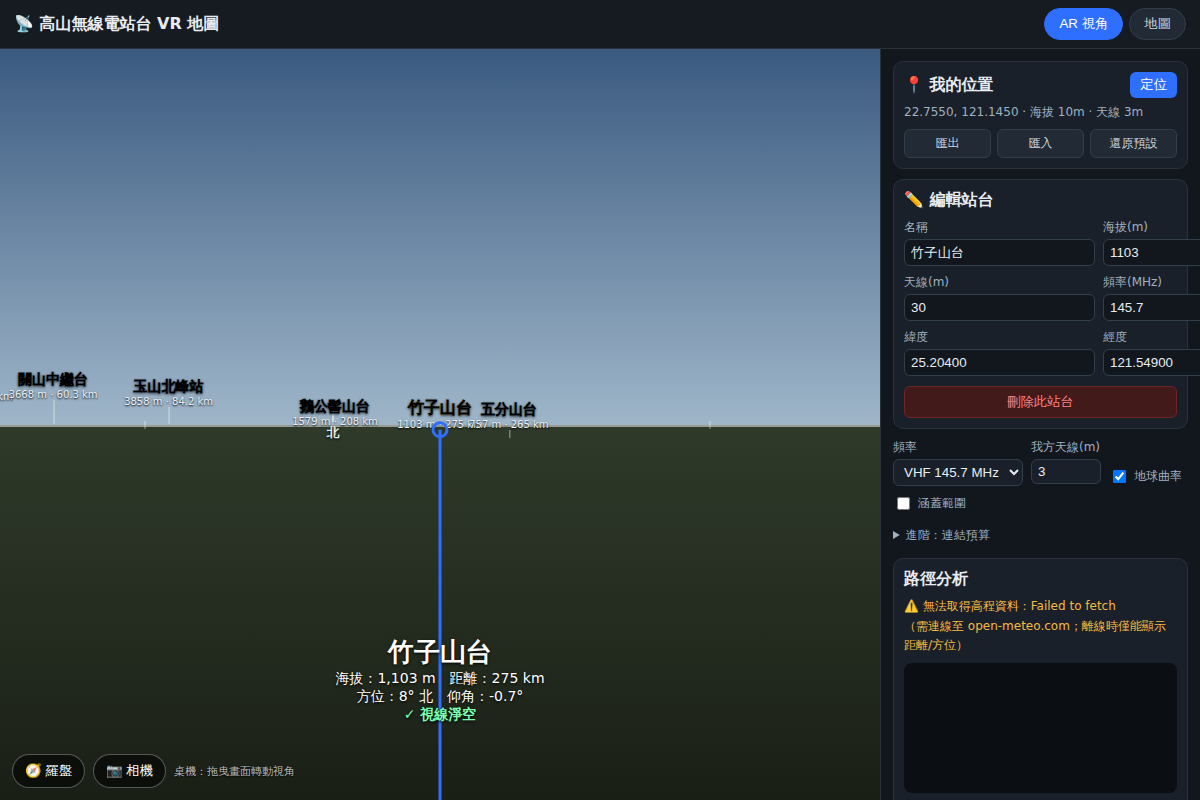
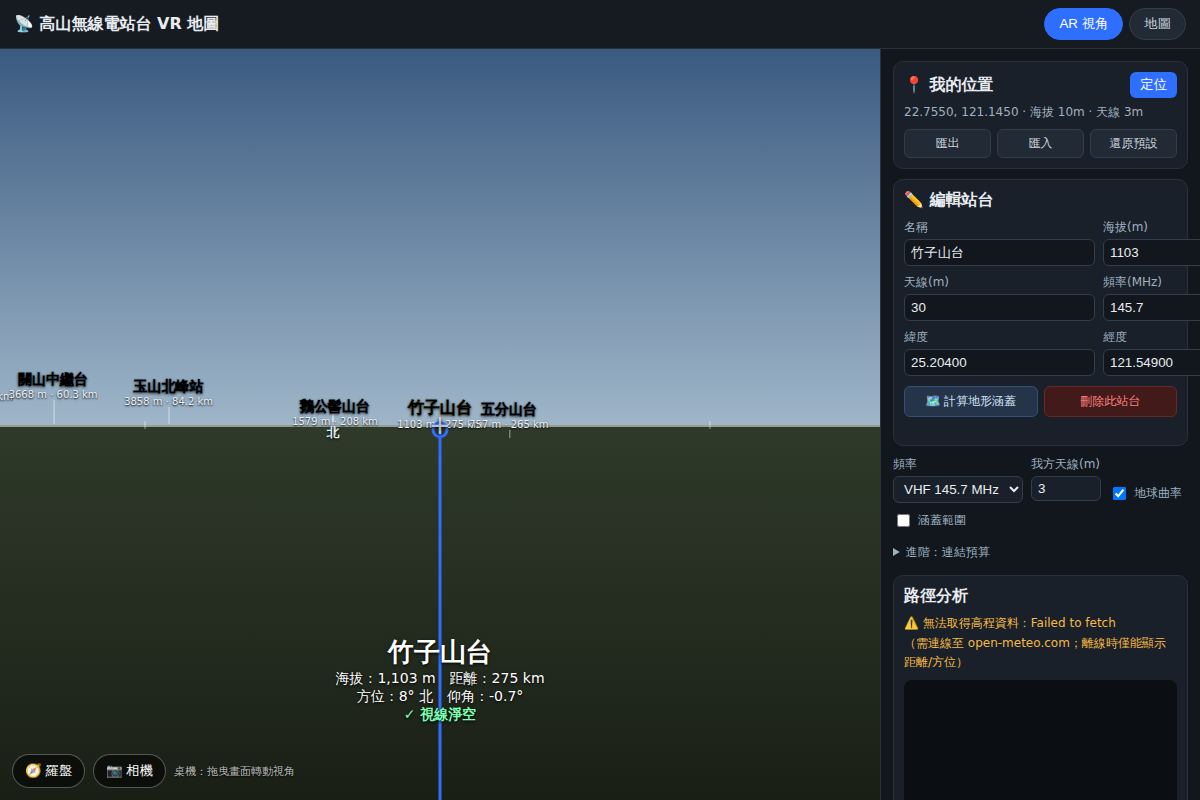
加入單元測試與更新文件
- test/geo.test.js：30 項無相依測試（node 執行），涵蓋距離/方位/
  連結預算/遮蔽/Deygout/地形涵蓋/CSV-GPX-JSON 匯入
- README：補充 Deygout 多刃、地形涵蓋、CSV/GPX 匯入與測試說明，
  更新檔案結構

Claude-Session: https://claude.ai/code/session_01KtVYF3A7scJwwuFEuGJXtk

Changed region(s): [[0.74, 0.4688, 0.9867, 0.8438]]

diff --git a/test/geo.test.js b/test/geo.test.js
@@ -1,0 +1,133 @@
+/*
+ * geo.test.js — 無相依單元測試
+ * 執行： node test/geo.test.js
+ * 涵蓋 geo 數學、遮蔽/連結分析、Deygout、涵蓋多邊形、匯入解析。
+ */
+'use strict';
+require('../js/geo.js');
+require('../js/elevation.js');
+require('../js/parse.js');
+const { Geo, Elevation, Parse } = globalThis;
+
+let pass = 0, fail = 0;
+function ok(name, cond) {
+  if (cond) { pass++; console.log('  ✓ ' + name); }
+  else { fail++; console.log('  ✗ ' + name); }
+}
+function approx(a, b, tol) { return Math.abs(a - b) <= tol; }
+
+console.log('geo — 距離/方位/座標');
+{
+  const a = { lat: 25.0330, lng: 121.5654 }; // 台北
+  const b = { lat: 22.6273, lng: 120.3014 }; // 高雄
+  const d = Geo.distance(a, b) / 1000;
+  ok('台北-高雄距離 ~296 km', approx(d, 296, 8));
+  const br = Geo.bearing(a, b);
+  ok('台北→高雄方位偏西南 (200-215°)', br > 200 && br < 215);
+  // destination 往返
+  const p = Geo.destination(a, 90, 10000);
+  ok('destination 10km 後距離回推 ~10km', approx(Geo.distance(a, p), 10000, 5));
+  ok('compass8(90)=東', Geo.compass8(90) === '東');
+  ok('compass8(315)=西北', Geo.compass8(315) === '西北');
+}
+
+console.log('geo — 仰角/曲率/視距/菲涅耳');
+{
+  ok('目標較高 → 仰角為正', Geo.elevationAngle(100, 2000, 20000, true) > 0);
+  ok('含曲率仰角 < 不含曲率', Geo.elevationAngle(0, 0, 100000, true) < Geo.elevationAngle(0, 0, 100000, false));
+  ok('30m 天線視距 ~22.6 km', approx(Geo.radioHorizonKm(30), 22.6, 1.5));
+  ok('菲涅耳半徑為正', Geo.fresnelRadius(25000, 25000, 145) > 0);
+}
+
+console.log('geo — 連結預算');
+{
+  ok('FSPL 50km@145MHz ~109.6 dB', approx(Geo.fsplDb(50000, 145), 109.6, 0.5));
+  ok('knifeEdge v=-1 → 0 dB', Geo.knifeEdgeLossDb(-1) === 0);
+  ok('knifeEdge v=0 → ~6 dB', approx(Geo.knifeEdgeLossDb(0), 6, 0.3));
+  ok('knifeEdge v=1 → ~14 dB', approx(Geo.knifeEdgeLossDb(1), 14, 0.5));
+  ok('diffractionV：淨空為負', Geo.diffractionV(100, 50) < 0);
+  ok('diffractionV：阻擋為正', Geo.diffractionV(-100, 50) > 0);
+}
+
+console.log('elevation — 遮蔽分析');
+{
+  const D = 50000, N = 50, prof = [];
+  for (let i = 0; i <= N; i++) {
+    let g = 100;
+    if (i === N) g = 1500;
+    if (i >= 24 && i <= 26) g = 2200; // 中間高山
+    prof.push({ dist: (D * i) / N, ground: g });
+  }
+  const a = Elevation.analyzePath(prof, { obsAntenna: 3, tgtAntenna: 6, freqMHz: 145 });
+  ok('偵測到被地形擋住 (losClear=false)', a.losClear === false);
+  ok('有障礙點', a.obstructions.length > 0);
+  ok('最緊要處淨空為負', a.worst.clearance < 0);
+  ok('總損耗 = FSPL + 繞射', approx(a.totalLoss, a.fspl + a.diffractionLoss, 0.01));
+
+  // 視距內淨空路徑
+  const clr = [];
+  for (let i = 0; i <= N; i++) clr.push({ dist: (10000 * i) / N, ground: i === N ? 50 : 20 });
+  const b = Elevation.analyzePath(clr, { obsAntenna: 30, tgtAntenna: 30, freqMHz: 145 });
+  ok('淨空路徑 losClear=true', b.losClear === true);
+  ok('淨空路徑 Deygout ~0 dB', approx(b.diffractionMulti, 0, 0.01));
+}
+
+console.log('elevation — Deygout 多重刀刃');
+{
+  const D = 60000, N = 120, prof = [];
+  for (let i = 0; i <= N; i++) {
+    let g = 100;
+    if (i === N) g = 1200;
+    if (i >= 30 && i <= 33) g = 1800;
+    if (i >= 70 && i <= 73) g = 1600;
+    prof.push({ dist: (D * i) / N, ground: g });
+  }
+  const single = Elevation.analyzePath(prof, { obsAntenna: 3, tgtAntenna: 6, freqMHz: 145 });
+  ok('兩山脊：Deygout ≥ 單刃', single.diffractionMulti >= single.diffractionSingle);
+  ok('Deygout 有界 (<150 dB)', single.diffractionMulti < 150);
+}
+
+console.log('elevation — 地形涵蓋多邊形 (mock fetch)');
+{
+  const savedFetch = global.fetch;
+  global.fetch = async (url) => {
+    const u = new URL(url);
+    const lats = u.searchParams.get('latitude').split(',').map(Number);
+    const lngs = u.searchParams.get('longitude').split(',').map(Number);
+    const elevation = lats.map((la, i) => {
+      const dLng = lngs[i] - 121.0;
+      return (dLng > 0.15 && dLng < 0.25) ? 3000 : 200; // 東側高牆
+    });
+    return { ok: true, json: async () => ({ elevation }) };
+  };
+  const center = { lat: 23.0, lng: 121.0, alt: 1500, antenna: 10 };
+  return Elevation.computeCoveragePolygon(center, { antenna: 10, rxHeight: 10, azimuths: 24, samples: 24 })
+    .then((poly) => {
+      ok('多邊形 24 頂點', poly.length === 24);
+      const dE = Geo.distance(center, { lat: poly[6][0], lng: poly[6][1] });
+      const dW = Geo.distance(center, { lat: poly[18][0], lng: poly[18][1] });
+      ok('東側(高牆)涵蓋 < 西側(淨空)', dE < dW);
+      global.fetch = savedFetch;
+      runParseTests();
+    });
+}
+
+function runParseTests() {
+  console.log('parse — CSV/GPX/JSON');
+  const csv = 'name,lat,lng,alt,antenna,freq\nA,23.4,120.9,3000,10,145.5\n壞,,,\n';
+  const r1 = Parse.parseStations(csv, 'x.csv');
+  ok('CSV 追加模式、略過壞列 (1 筆)', r1.mode === 'append' && r1.stations.length === 1);
+  ok('CSV 欄位對應正確', r1.stations[0].alt === 3000 && r1.stations[0].freqMHz === 145.5);
+
+  const gpx = '<gpx><wpt lon="121.5" lat="25.2"><ele>1103</ele><name>竹子山</name></wpt><wpt lat="24.6" lon="121.1"/></gpx>';
+  const r2 = Parse.parseStations(gpx, 'x.gpx');
+  ok('GPX 解析 2 航點（含自封閉、屬性順序不定）', r2.stations.length === 2);
+  ok('GPX 名稱/高度正確', r2.stations[0].name === '竹子山' && r2.stations[0].alt === 1103);
+
+  const json = JSON.stringify({ stations: [{ id: 'j', type: 'station', name: 'J', lat: 23, lng: 121, alt: 0 }] });
+  const r3 = Parse.parseStations(json, 'x.json');
+  ok('JSON 取代模式', r3.mode === 'replace' && r3.stations.length === 1);
+
+  console.log(`\n結果：${pass} 通過，${fail} 失敗`);
+  process.exit(fail ? 1 : 0);
+}

diff --git a/README.md b/README.md
@@ -17,10 +17,10 @@
 | 高山無線電站台 | 站台/中繼台資料，含天線高度、頻率 |
 | 中間有沒有山擋住？ | 沿路徑取樣地形剖面，含 **地球曲率** 與 **菲涅耳區** 判斷遮蔽 |
 | VR 概念 | AR 全景視角：站台依方位/仰角疊在地平線，附瞄準線與即時讀數 |
-| 連結是否可通 | 連結預算：自由空間損耗 + 繞射損耗 + 連結餘裕 (dB) |
+| 連結是否可通 | 連結預算：自由空間損耗 + 繞射損耗（單刃 + Deygout 多刃）+ 連結餘裕 (dB) |
 | 一次看全部 | 「分析全部」計算所有站台，依路徑品質排序、標出最佳中繼台 ⭐ |
-| 涵蓋範圍 | 依無線電視距在地圖畫各站台涵蓋圈 |
-| 自訂資料 | 新增/編輯/刪除站台、GPS 定位、localStorage 保存、JSON 匯入匯出 |
+| 涵蓋範圍 | 依無線電視距畫涵蓋圈；或「計算地形涵蓋」畫出考慮地形遮蔽的多邊形（無線電陰影） |
+| 自訂資料 | 新增/編輯/刪除站台、GPS 定位、localStorage 保存、JSON/CSV/GPX 匯入、JSON 匯出 |
 
 ## 三個核心視角
 
@@ -57,8 +57,19 @@ FSPL(dB) = 20log10(d_km) + 20log10(f_MHz) + 32.44
 連結餘裕 = 接收功率 − 接收機靈敏度        // ≥10 dB 佳、≥0 dB 勉強、<0 不通
 ```
 
-繞射損耗以路徑上繞射參數 `v = -√2·(clearance/F1)` 最大處估算。
+繞射損耗以兩種方式估算並取較保守者：
+- **單一刀刃**：路徑上繞射參數 `v = -√2·(clearance/F1)` 最大處的損耗。
+- **Deygout 多重刀刃**：先取主邊（v 最大），再遞迴主邊兩側子路徑，
+  相加得多道山脊的總繞射損耗；限最多 3 道刀刃，避免在平滑地球曲率
+  剖面上遞迴出假邊而高估。
+
 EIRP、接收增益、靈敏度可在「進階：連結預算」中調整。
+
+### 地形感知涵蓋（無線電陰影）
+
+站台編輯器的「🗺 計算地形涵蓋」會自站台向四周發射多條射線，
+逐方向找出「地面視線第一次被地形擋住」的距離，串成涵蓋多邊形。
+相較單純的圓形視距涵蓋，能呈現被山脈遮擋形成的無線電陰影。
 
 ## 使用 Usage
 
@@ -72,17 +83,27 @@ python3 -m http.server 8000
 > 地圖圖磚與高程分析需要對外網路（`tile.openstreetmap.org`、`api.open-meteo.com`）。
 > 離線時仍可顯示距離、方位與 AR 視角，僅無法做地形遮蔽判斷。
 
+## 測試 Tests
+
+數學與解析邏輯有無相依的單元測試（Node 內建，免安裝）：
+
+```bash
+node test/geo.test.js     # 30 項：距離/方位/連結預算/遮蔽/Deygout/涵蓋/匯入
+```
+
 ## 檔案結構
 
 ```
 index.html            介面骨架與分頁
 css/style.css         樣式
-js/geo.js             地理/RF 數學（距離、方位、仰角、曲率、視距、菲涅耳）
-js/elevation.js       高程 API + 地形剖面 + 遮蔽分析
+js/geo.js             地理/RF 數學（距離、方位、仰角、曲率、視距、菲涅耳、FSPL、繞射）
+js/elevation.js       高程 API + 地形剖面 + 遮蔽分析 + Deygout + 涵蓋多邊形
+js/parse.js           匯入解析（JSON / CSV / GPX）
 js/data.js            範例站台/山峰資料（座標為概略值，請自行校正）
-js/map.js             Leaflet 地圖視角
+js/map.js             Leaflet 地圖視角（路徑、涵蓋圈、地形涵蓋多邊形）
 js/ar.js              AR/VR 全景視角
 js/app.js             主控制器
+test/geo.test.js      單元測試
 vendor/leaflet/       內建 Leaflet（免 CDN）
 ```
 
@@ -90,5 +111,5 @@ vendor/leaflet/       內建 Leaflet（免 CDN）
 
 - `js/data.js` 內的座標與高程為 **概略示範值**，用來對應照片中的山峰；
   正式規劃請以精確測量座標取代，或直接在地圖上點選校正。
-- 遮蔽分析採「單一直線 + 曲率 + 菲涅耳」模型，未計入植被、建物、繞射增益等；
-  屬規劃參考，非精確 RF 模擬。
+- 遮蔽/繞射分析採「刀刃繞射 + 曲率 + 菲涅耳」模型（單刃與 Deygout 多刃），
+  未計入植被、建物、大氣衰減、散射等；屬規劃參考，非精確 RF 模擬。
